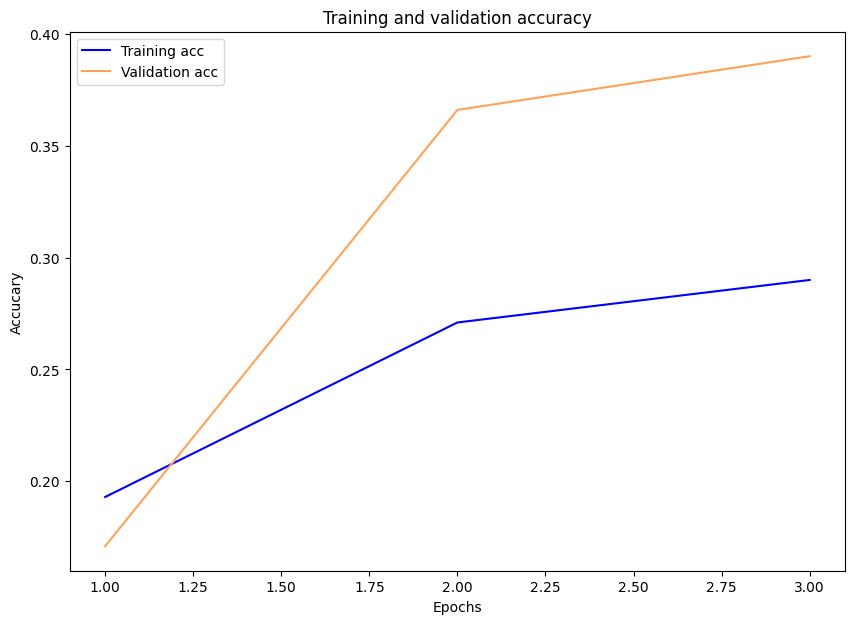
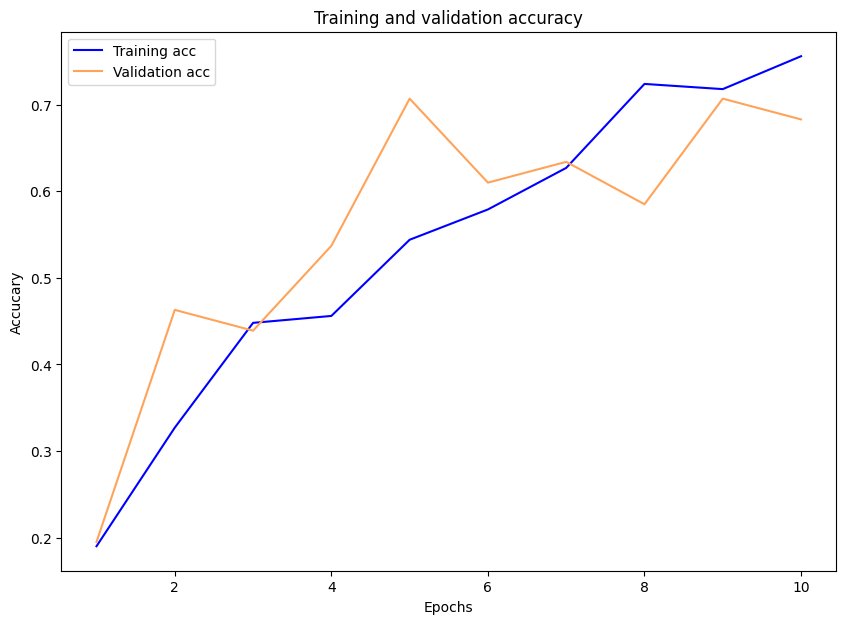
added weights and biases for run logging

diff --git a/main.py b/main.py
@@ -6,7 +6,16 @@ from sklearn.model_selection import KFold
 import preprocess as pp
 import evaluation as eva
 import splitdata as split
+import wandb
+from wandb.keras import WandbCallback
 
+run = wandb.init(project="my-test-project", entity="baixst",
+                 config={
+                    "image_type": "stft",
+                    "learning_rate": 0.01,
+                    "epochs": 10,
+                    "batch_size": 128})
+config = wandb.config
 
 # Path Parameters
 SPECTROGRAMM_PATH = "res/img_test"
@@ -35,7 +44,7 @@ MY_DPI = 77  # weirdly not working with the actual dpi of the monitor, just play
 
 # Training Parameters
 VAL_SET_PERCENTAGE = 10
-TRAIN_EPOCHS = 3
+TRAIN_EPOCHS = config.get("epochs")
 # BATCH_SIZE = 0
 # TRAINING_RATE = 0
 # DROPOUT_RATE = 0
@@ -94,7 +103,7 @@ def Build_Train_Test_Model(train_data, train_labels, val_data, val_labels):
                   metrics=['accuracy'])
 
     history = model.fit(train_data, train_labels, epochs=TRAIN_EPOCHS,
-                        validation_data=(val_data, val_labels))
+                        validation_data=(val_data, val_labels), callbacks=[WandbCallback()])
 
     return model, history
 
@@ -218,3 +227,4 @@ if build_and_train:
         test_loss, test_acc = model.evaluate(testImages, testLabels, verbose=2)
         eva.Show_Confusion_Matrix(CLASS_NAMES, model, test_acc, testImages, testLabels)
 
+    run.finish()
